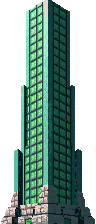
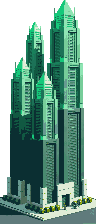
feat(carte): la Tour-monde — une seule suffit a faire la demesure
Lot B3 du chantier ECHELLE + regen v2 du megablock jade (grappe, plus dalle).
Nouveau variant rare `supertower` (12 t, le plus haut du bati) : promotion des
slots persistants 0 et 12 des la bande 7 — pres du coeur, stables a jamais —
avec garde d espacement au recalcul (jamais deux cote a cote). 3 sprites
cosmic 7/8/9 (jade / or noir / cristal de glace), libelle « Tour-monde »,
3 tests de contrat (rarete, espacement, gate de bande).

diff --git a/src/game/map/procedural/__tests__/buildingGenerator.test.js b/src/game/map/procedural/__tests__/buildingGenerator.test.js
@@ -44,6 +44,60 @@ function nearRoad(roadKey, gx, gy, R = ROAD_RADIUS) {
   return false;
 }
 
+// Scénario cosmique pour la SUPER-TOUR (chantier ÉCHELLE, B3) : même grille,
+// bande paramétrée. Le tirage promeut les slots 0 et 12 en « supertower » dès
+// la bande 7, avec un garde d'espacement — on vérifie le contrat, pas le hasard.
+function scenarioBand(eraBand, seed = 4242) {
+  const N = 40;
+  const core = { x: 20, y: 20 };
+  const roadKey = new Set();
+  for (let x = 2; x <= 37; x += 1) roadKey.add(x + ",20");
+  const cells = [];
+  for (let gx = 0; gx < N; gx += 1) for (let gy = 0; gy < N; gy += 1) {
+    if (roadKey.has(gx + "," + gy)) continue;
+    cells.push({ gx, gy, d2: (gx - core.x) ** 2 + (gy - core.y) ** 2 });
+  }
+  const plan = { core, order: 1, chaos: 0, anchors: [], plazas: [] };
+  const placer = createBuildingPlacer({
+    cells, plan, roadKey,
+    counts: { eraBand },
+    personality: { variantBias: null, buildingBias: {} },
+    seed, nearSet: new Set(), N, requireRoad: false
+  });
+  const tiles = [];
+  placer.placeCategory("house", 400, new Set(), (t) => tiles.push(t));
+  return tiles;
+}
+
+describe("buildingGenerator — super-tour (chantier ÉCHELLE, B3)", () => {
+  it("bandes cosmiques : 1 à 2 par ville, jamais plus", () => {
+    for (const band of [7, 8, 9]) {
+      for (const seed of [1, 4242, 987654]) {
+        const supers = scenarioBand(band, seed).filter((t) => t.variant === "supertower");
+        expect(supers.length, `bande ${band} seed ${seed}`).toBeGreaterThanOrEqual(1);
+        expect(supers.length, `bande ${band} seed ${seed}`).toBeLessThanOrEqual(2);
+      }
+    }
+  });
+
+  it("jamais deux côte à côte : espacement Chebyshev >= 10 quand il y en a deux", () => {
+    for (const seed of [1, 4242, 987654]) {
+      const supers = scenarioBand(9, seed).filter((t) => t.variant === "supertower");
+      if (supers.length === 2) {
+        const [a, b] = supers;
+        const d = Math.max(Math.abs(a.gx - b.gx), Math.abs(a.gy - b.gy));
+        expect(d, `seed ${seed}`).toBeGreaterThanOrEqual(10);
+      }
+    }
+  });
+
+  it("avant la bande 7 : aucune", () => {
+    for (const band of [0, 5, 6]) {
+      expect(scenarioBand(band).filter((t) => t.variant === "supertower")).toHaveLength(0);
+    }
+  });
+});
+
 describe("buildingGenerator — placement par lots (PR2)", () => {
   it("requireRoad : tout bâtiment posé reste proche d'une rue (rayon borné)", () => {
     const { tiles, roadKey } = scenario({ requireRoad: true });

diff --git a/src/game/map/procedural/buildingGenerator.js b/src/game/map/procedural/buildingGenerator.js
@@ -43,7 +43,8 @@ function variantList(table, band, bias) {
 const HOUSE_FOOTPRINT = {
   manor: [2, 2],                  // grande demeure (sprite ~1,3 tuile de large) : réserve son lot pour garder sa masse sans déborder
   tenement: [1, 2], tower: [1, 2],
-  megablock: [2, 2], arcologyhome: [2, 2]
+  megablock: [2, 2], arcologyhome: [2, 2],
+  supertower: [2, 2]              // super-tour B3 : rare (cf. SUPER_SLOTS), ~11 tuiles de haut
 };
 export const houseFootprint = (variant) => HOUSE_FOOTPRINT[variant] || [1, 1];
 
@@ -138,7 +139,31 @@ export function createBuildingPlacer({
     return orderedFor[category];
   };
 
+  // ── SUPER-TOUR (chantier ÉCHELLE, Lot B3 — docs/PLAN-ECHELLE.md) ───────────
+  // La perception du maximum FAIT le maximum : 1-2 exemplaires par ville
+  // suffisent à crever la skyline, pas besoin que tout grandisse. Deux SLOTS
+  // persistants précis (0 et 12 — les mieux classés du tri, donc près du cœur,
+  // posés tôt, et qui ne bougent plus jamais) deviennent « supertower » dès la
+  // bande 7. Espacement : registre par RECALCUL (le placer est recréé à chaque
+  // compute) ; la seconde est DÉMOTÉE au tirage normal si elle tombe à moins de
+  // SUPER_DIST de l'autre — jamais deux côte à côte. Clé PAR SLOT : quand la
+  // passe 1 refuse l'empreinte 2×2 et refit le slot ailleurs, il se ré-évalue
+  // sans être bloqué par son propre fantôme.
+  const SUPER_SLOTS = new Set([0, 12]);
+  const SUPER_DIST = 10;
+  const supers = new Map();
+
   const chooseVariant = (category, n, cell) => {
+    if (category === "house" && counts.eraBand >= 7 && SUPER_SLOTS.has(n)) {
+      let far = true;
+      for (const [si, s] of supers) {
+        if (si !== n && Math.max(Math.abs(s.gx - cell.gx), Math.abs(s.gy - cell.gy)) < SUPER_DIST) { far = false; break; }
+      }
+      if (far) {
+        supers.set(n, { gx: cell.gx, gy: cell.gy });
+        return "supertower";
+      }
+    }
     const list = variantList(VARIANTS_HOUSE, counts.eraBand, bias);
     const h = hashString(seed + ":" + category + ":" + cell.gx + ":" + cell.gy);
     return list[(n + h) % list.length];

diff --git a/src/game/map/pixelHouses.js b/src/game/map/pixelHouses.js
@@ -41,14 +41,17 @@ export const houseVarTune = { on: true };
 // pas de gate par bande, on se fie à la variante de la tuile.
 const AVAILABLE = new Set([
   "tent", "hut", "longhouse", "courtyard", "townhouse", "stonehouse",
-  "manor", "block", "tenement", "tower", "megablock", "arcologyhome"
+  "manor", "block", "tenement", "tower", "megablock", "arcologyhome",
+  // Super-tour B3 : n'existe QU'EN bandes 7-9 (cf. SUPER_SLOTS du générateur),
+  // donc pas de PNG de base — spriteKeyFor donne toujours la clé cosmique.
+  "supertower"
 ]);
 
 // Variantes tardives qui reçoivent un SKIN COSMIQUE par bande (7 émeraude / 8 or /
 // 9 violet) — cohérence avec les tours-moteur cosmiques (cf. blitCosmicTower). Aux
 // ères 35+ elles chargent « <variant>-cosmic-<band>.png » ; partout ailleurs, leur
 // sprite de base. Les autres variantes gardent un sprite unique quelle que soit l'ère.
-const COSMIC_VARIANTS = new Set(["tower", "megablock", "arcologyhome"]);
+const COSMIC_VARIANTS = new Set(["tower", "megablock", "arcologyhome", "supertower"]);
 
 // Largeur de contenu (px du PNG) qui remplit ~1 tuile d'emprise. Les autres sprites
 // scalent au MÊME facteur → leur taille relative (calibrée sur BUILDING_HEIGHTS à la

diff --git a/src/game/map/buildingShapes.js b/src/game/map/buildingShapes.js
@@ -17,7 +17,8 @@ import { drawEngineSprite } from './engineSprites.js';
 const BUILDING_HEIGHTS = {
   tent: 0.5, hut: 0.6, longhouse: 0.8, townhouse: 1.1,
   courtyard: 0.9, stonehouse: 1.1, manor: 1.4, block: 1.8, tenement: 2.2,
-  tower: 3.2, megablock: 2.8, arcologyhome: 3.4
+  tower: 3.2, megablock: 2.8, arcologyhome: 3.4,
+  supertower: 4.4   // super-tour B3 (repli procédural seulement : le sprite fait ~11 t)
 };
 
 // ── Helpers du langage commun ───────────────────────────────────────────────

diff --git a/src/game/map/cityMapRuntime.js b/src/game/map/cityMapRuntime.js
@@ -522,6 +522,7 @@ function cityMapVariantLabel(type, variant) {
     tower: "Tour d'habitation",
     megablock: "Grand ensemble",
     arcologyhome: "Logement d'arcologie",
+    supertower: "Tour-monde",
     // Grands complexes (districts) conservés :
     market: "Marche",
     temple: "Temple",

diff --git a/docs/PLAN-ECHELLE.md b/docs/PLAN-ECHELLE.md
@@ -239,7 +239,21 @@ Mêmes noms de fichiers → zéro câblage. Vérifier quand même :
   cf. fiche « jeu sur téléphone ».
 - Refaire les 3 captures de référence par bande (7/8/9).
 
-### B3 — CONDITIONNEL (si la fournée B1 plaît) : la super-tour rare
+### B3 — la super-tour rare : « Tour-monde »
+
+> **ÉTAT 2026-08-03 : LIVRÉ** (avec la régé v2 du megablock jade — grappe de
+> trois tours au lieu de la dalle, même gabarit 96×224). Variant `supertower` :
+> promotion des SLOTS PERSISTANTS 0 et 12 (les mieux classés du tri → près du
+> cœur, stables à jamais) dès la bande 7, dans `chooseVariant`
+> (buildingGenerator.js) ; espacement par registre au recalcul (démotion de la
+> seconde si Chebyshev < 10, clé PAR SLOT pour survivre au refit d'empreinte).
+> Câblé : `HOUSE_FOOTPRINT` [2,2], `AVAILABLE`+`COSMIC_VARIANTS`
+> (pixelHouses.js — pas de PNG de base, la clé est toujours cosmique),
+> `BUILDING_HEIGHTS` 4,4 (repli), libellé « Tour-monde » (cityMapRuntime.js).
+> 3 PNG `supertower-cosmic-7/8/9` (66-82 px de large, 342-344 px → **12,1-12,2 t
+> mesurés en jeu**, vs tour 10,6). 3 tests de contrat (rareté 1-2, espacement,
+> gate bande 7) — 1533 verts. En démo saturée elle est « première parmi
+> beaucoup » ; sur une vraie save (moins dense) elle dominera davantage.
 
 1-2 exemplaires par ville, près du cœur : la perception du maximum FAIT le
 maximum.
